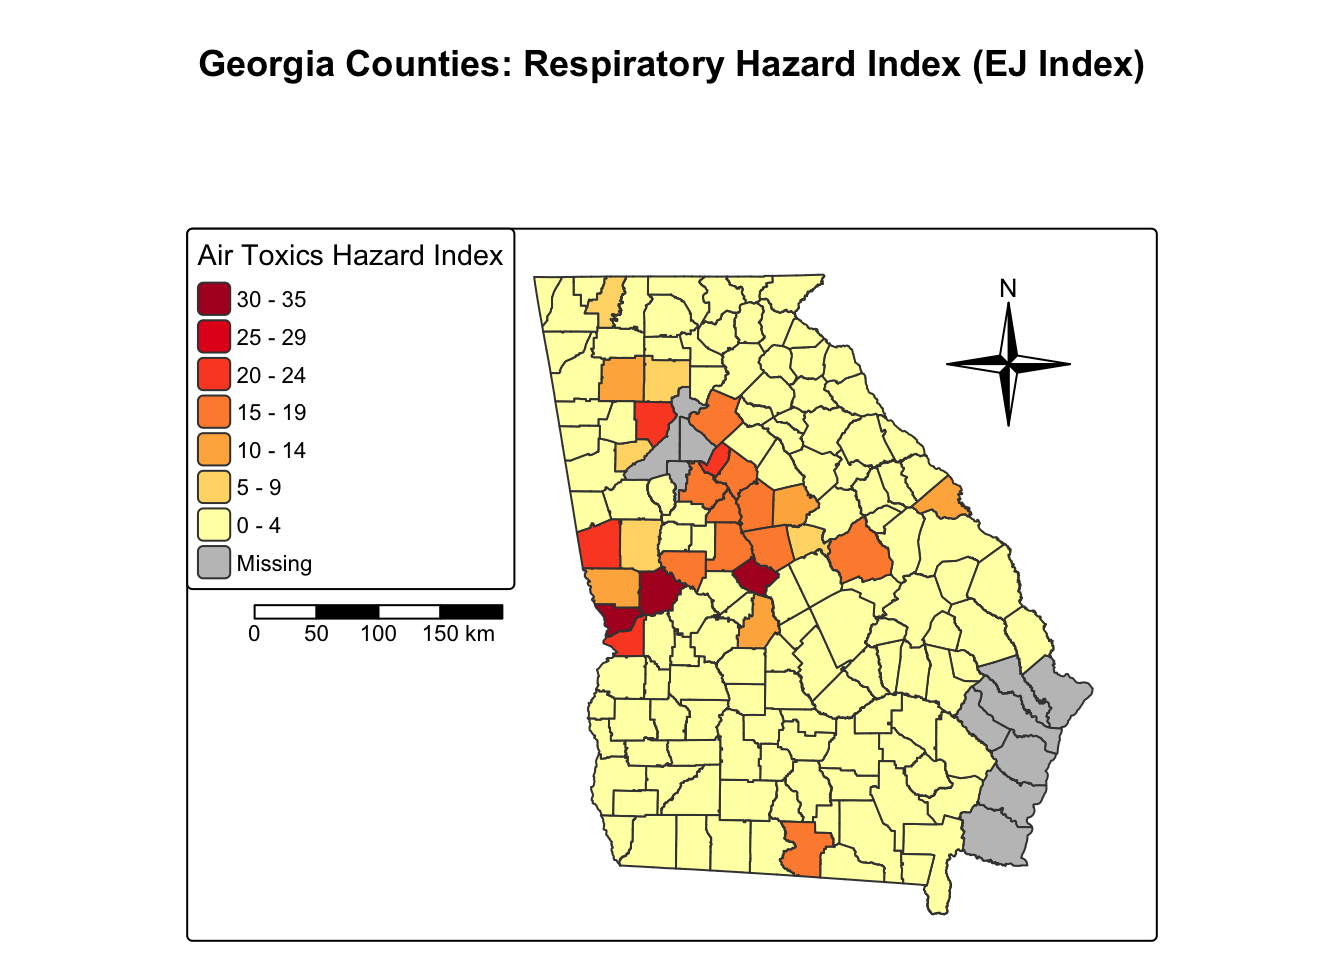
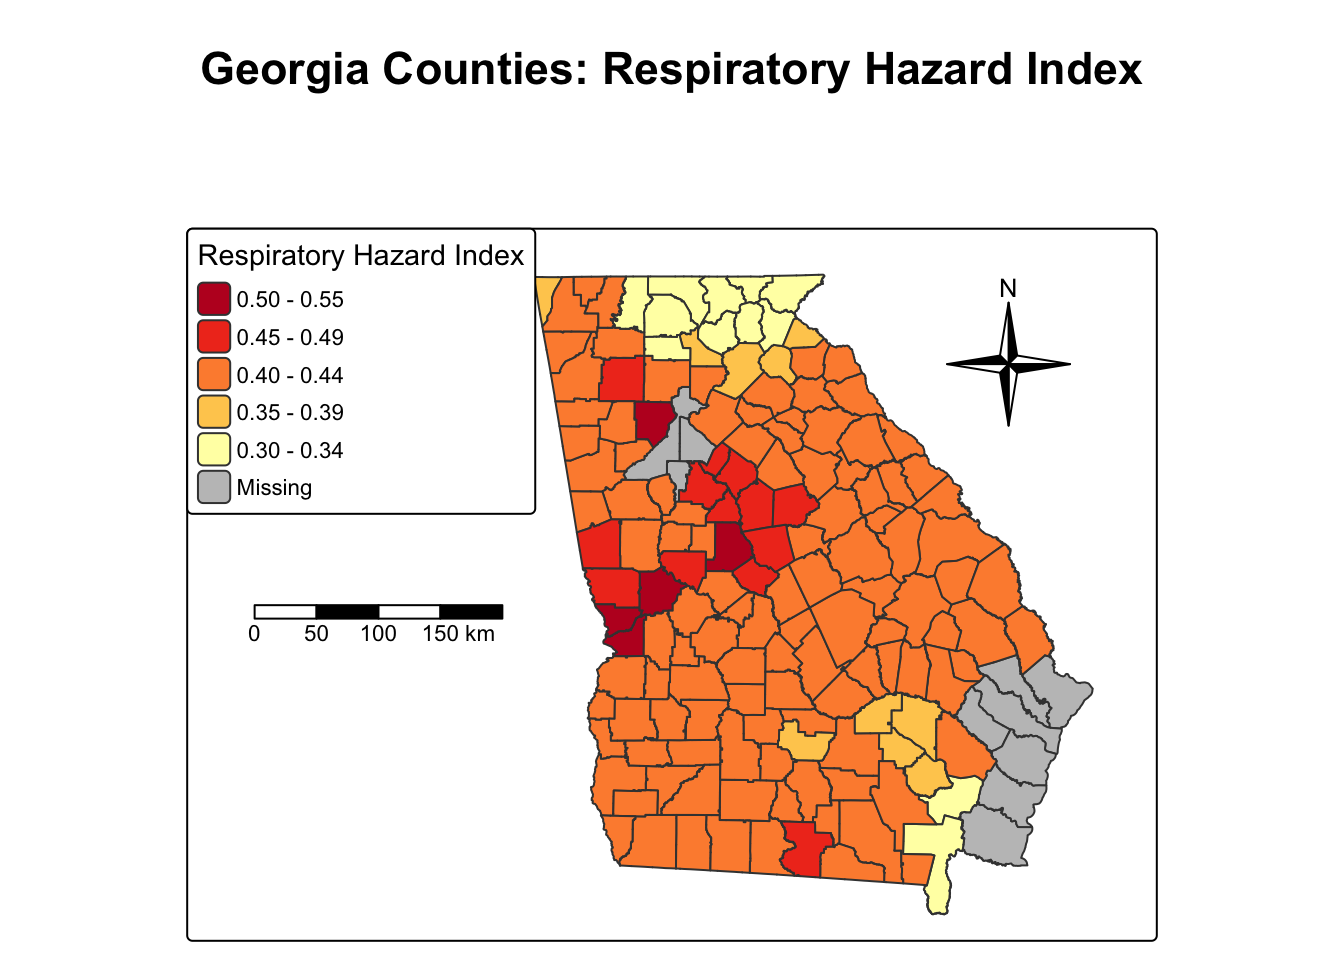
Add paragraph

Changed region(s): [[0.125, 0.25, 0.7812, 0.9375], [0.1562, 0.0312, 0.875, 0.0938]]

diff --git a/eds223-hw1/ej_screen.html b/eds223-hw1/ej_screen.html
@@ -158,10 +158,10 @@ Projected CRS: WGS 84 / Pseudo-Mercator</code></pre>
 <div class="sourceCode cell-code" id="cb7"><pre class="sourceCode r code-with-copy"><code class="sourceCode r"><span id="cb7-1"><a href="#cb7-1" aria-hidden="true" tabindex="-1"></a><span class="co"># Create second map</span></span>
 <span id="cb7-2"><a href="#cb7-2" aria-hidden="true" tabindex="-1"></a><span class="fu">tm_shape</span>(georgia_counties_means, <span class="at">bbox =</span> bbox_georgia) <span class="sc">+</span></span>
 <span id="cb7-3"><a href="#cb7-3" aria-hidden="true" tabindex="-1"></a>  <span class="fu">tm_crs</span>(<span class="dv">4326</span>) <span class="sc">+</span></span>
-<span id="cb7-4"><a href="#cb7-4" aria-hidden="true" tabindex="-1"></a>  <span class="fu">tm_polygons</span>(<span class="at">fill =</span> <span class="st">"D2_RESP"</span>,</span>
+<span id="cb7-4"><a href="#cb7-4" aria-hidden="true" tabindex="-1"></a>  <span class="fu">tm_polygons</span>(<span class="at">fill =</span> <span class="st">"RESP"</span>,</span>
 <span id="cb7-5"><a href="#cb7-5" aria-hidden="true" tabindex="-1"></a>              <span class="at">fill.scale =</span> <span class="fu">tm_scale</span>(<span class="at">values =</span> <span class="st">'brewer.yl_or_rd'</span>),</span>
-<span id="cb7-6"><a href="#cb7-6" aria-hidden="true" tabindex="-1"></a>              <span class="at">fill.legend =</span> <span class="fu">tm_legend</span>(<span class="at">title =</span> <span class="st">"Air Toxics Hazard Index"</span>, <span class="at">reverse =</span> <span class="cn">TRUE</span>)) <span class="sc">+</span></span>
-<span id="cb7-7"><a href="#cb7-7" aria-hidden="true" tabindex="-1"></a>  <span class="fu">tm_title</span>(<span class="at">text =</span> <span class="st">"Georgia Counties: Respiratory Hazard Index (EJ Index)"</span>, <span class="at">fontface =</span> <span class="st">'bold'</span>, <span class="at">size =</span> <span class="dv">4</span>) <span class="sc">+</span></span>
+<span id="cb7-6"><a href="#cb7-6" aria-hidden="true" tabindex="-1"></a>              <span class="at">fill.legend =</span> <span class="fu">tm_legend</span>(<span class="at">title =</span> <span class="st">"Respiratory Hazard Index"</span>, <span class="at">reverse =</span> <span class="cn">TRUE</span>)) <span class="sc">+</span></span>
+<span id="cb7-7"><a href="#cb7-7" aria-hidden="true" tabindex="-1"></a>  <span class="fu">tm_title</span>(<span class="at">text =</span> <span class="st">"Georgia Counties: Respiratory Hazard Index"</span>, <span class="at">fontface =</span> <span class="st">'bold'</span>, <span class="at">size =</span> <span class="dv">4</span>) <span class="sc">+</span></span>
 <span id="cb7-8"><a href="#cb7-8" aria-hidden="true" tabindex="-1"></a>  <span class="fu">tm_compass</span>(<span class="at">position =</span> <span class="fu">c</span>(<span class="fl">0.76</span>, <span class="fl">0.95</span>), <span class="at">type =</span> <span class="st">'4star'</span>) <span class="sc">+</span></span>
 <span id="cb7-9"><a href="#cb7-9" aria-hidden="true" tabindex="-1"></a>  <span class="fu">tm_scalebar</span>(<span class="at">position =</span> <span class="fu">c</span>(<span class="fl">0.05</span>, <span class="fl">0.5</span>), <span class="at">text.size =</span> <span class="fl">0.7</span>) <span class="sc">+</span></span>
 <span id="cb7-10"><a href="#cb7-10" aria-hidden="true" tabindex="-1"></a>  <span class="fu">tm_layout</span>(<span class="at">legend.position =</span> <span class="fu">c</span>(<span class="dv">0</span>, <span class="dv">1</span>),</span>
@@ -174,6 +174,7 @@ Projected CRS: WGS 84 / Pseudo-Mercator</code></pre>
 </div>
 </div>
 </div>
+<p>The state of Georgia has some of the nation’s worst air quality according to the <a href="https://www.lung.org/research/sota/city-rankings/states/georgia">American Lung Association</a>. Additionally, <a href="https://blackdemographics.com/population/black-state-population/">Black Demographics</a> has ranked Georgia as second highest percent black population in the US. The first map shows this distribution of percent people of color by county, concentrated around central Georgia and south-western parts as well. The second map shows the distribution of the EPA’s AirToxScreen respiratory hazard index, derived from measuring toxic pollutants in ambient outdoor air. The hazard index is a unit-less measurement of the risk for developing non-cancer respiratory illnesses like asthma and bronchitis. The most hazardous counties lie in close proximity to counties with higher percentage of black populations which shows one example of environmental injustice that black communities face in the US.</p>
 </section>
 
 </main>
